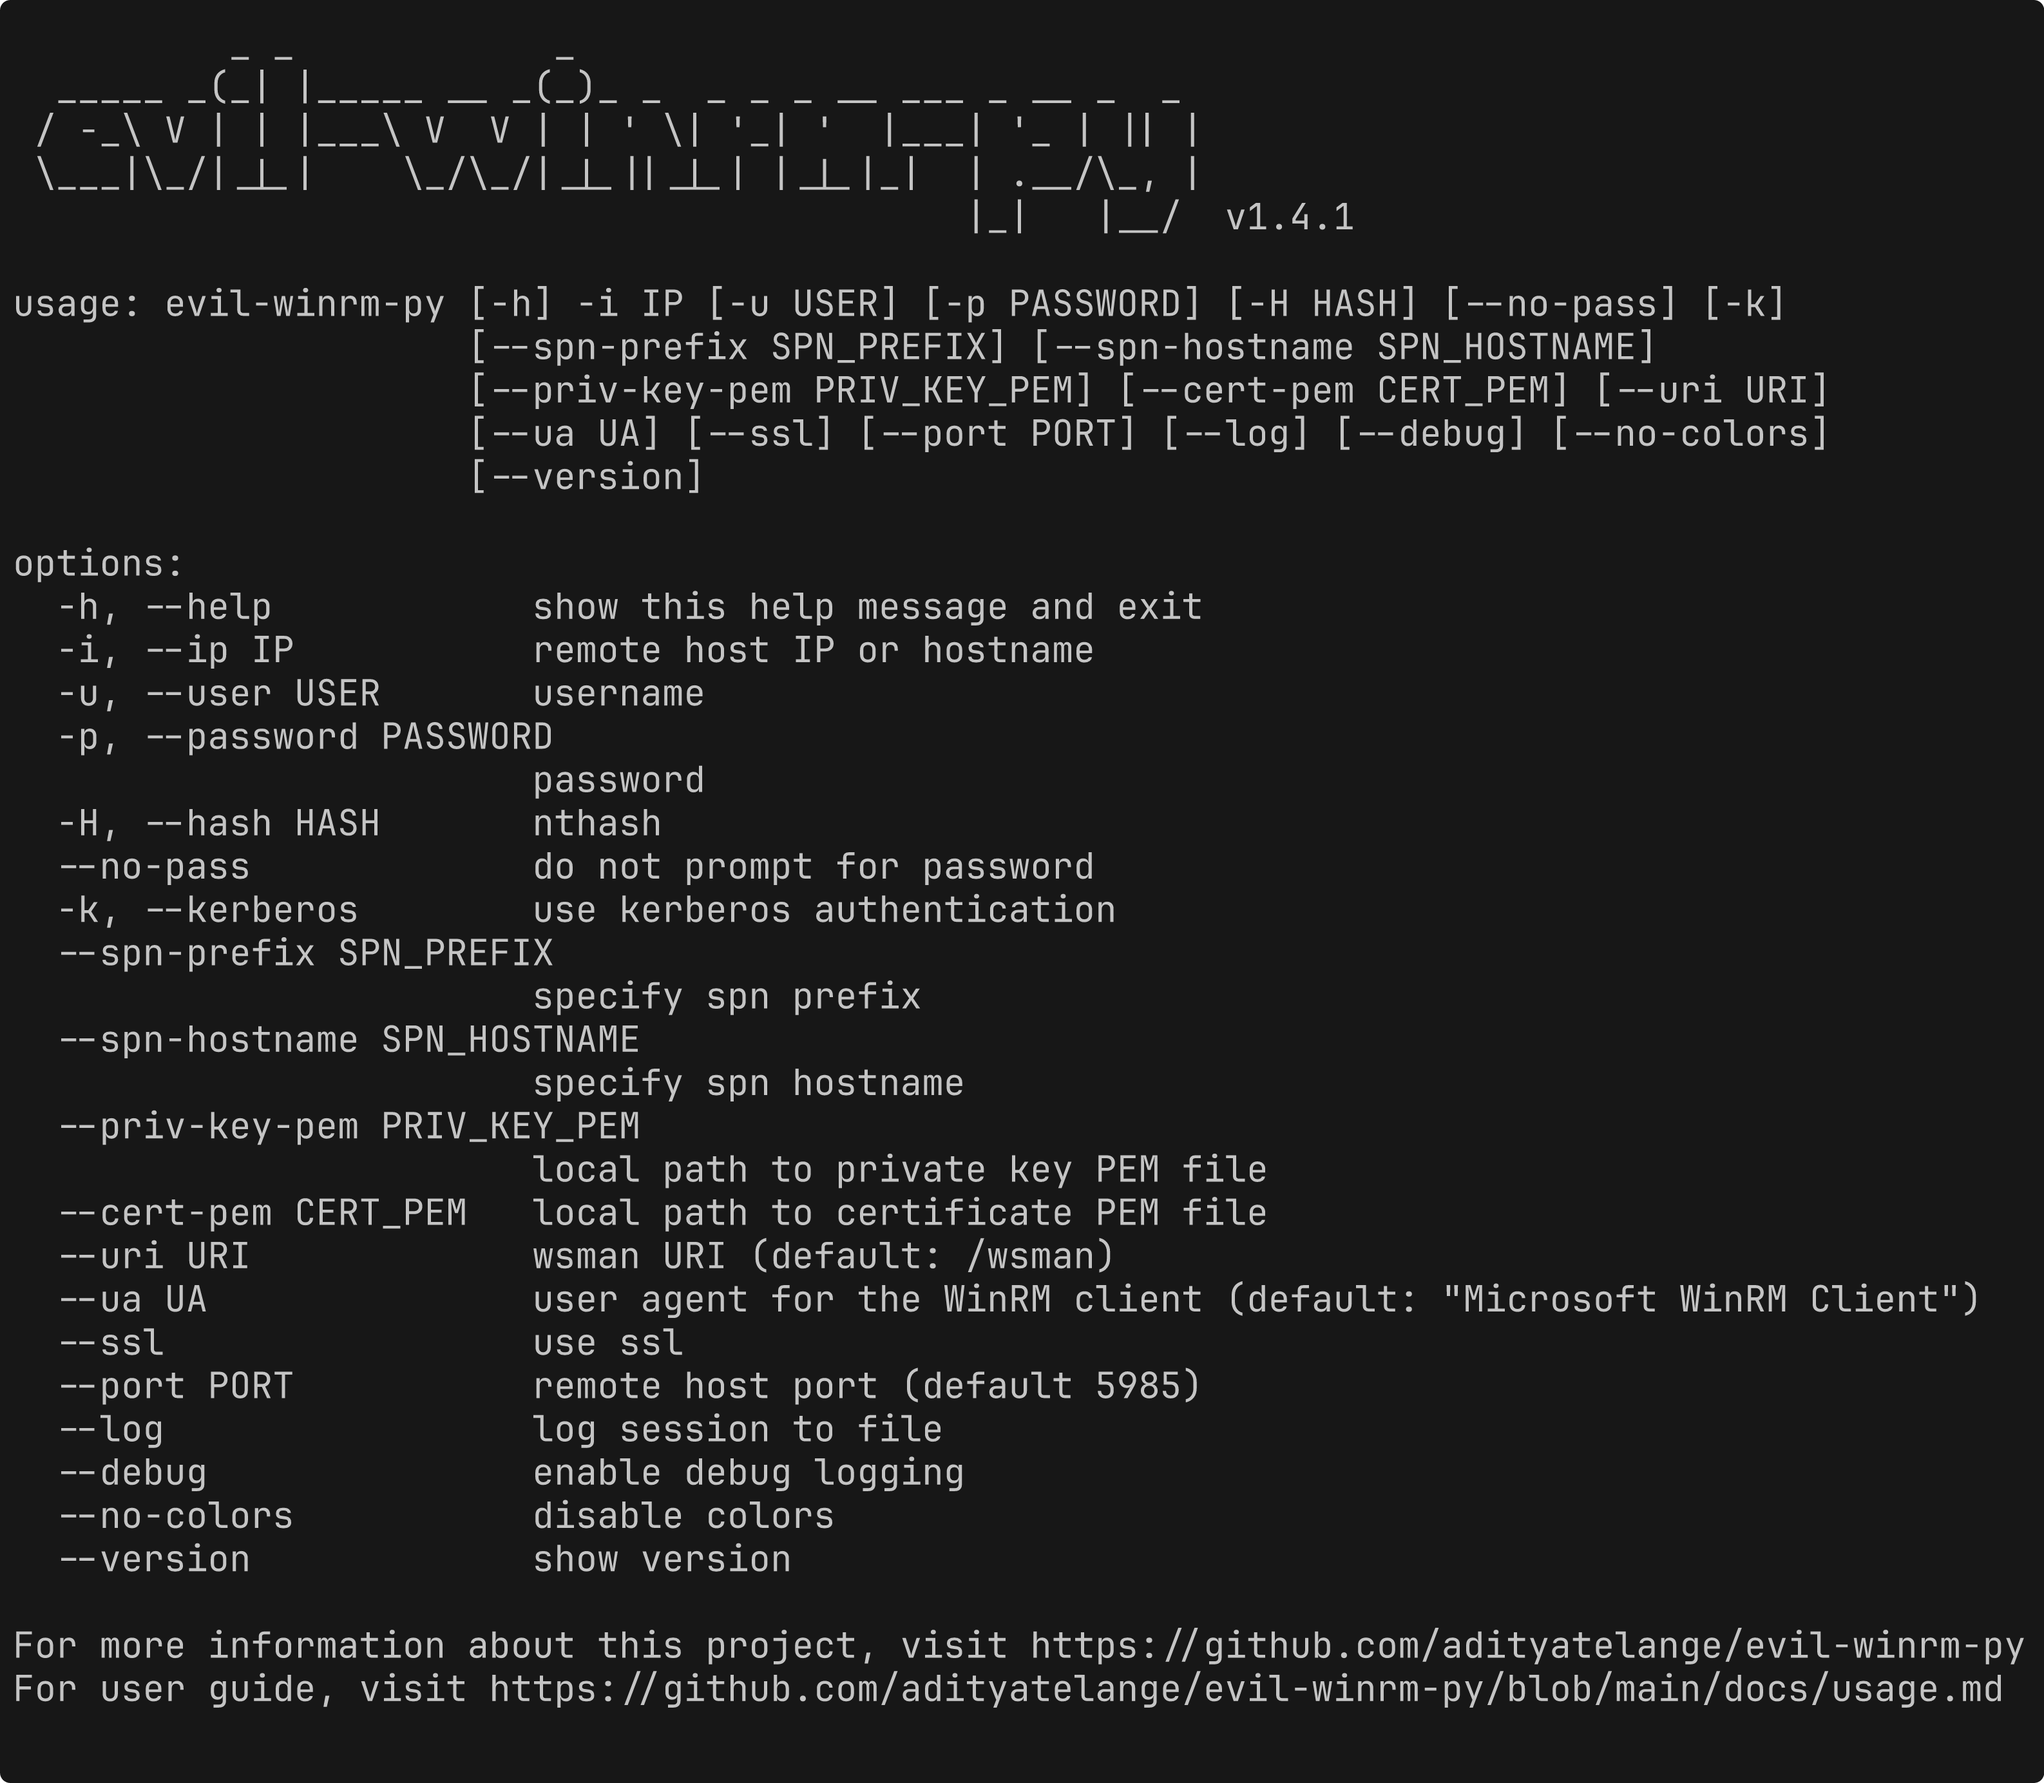
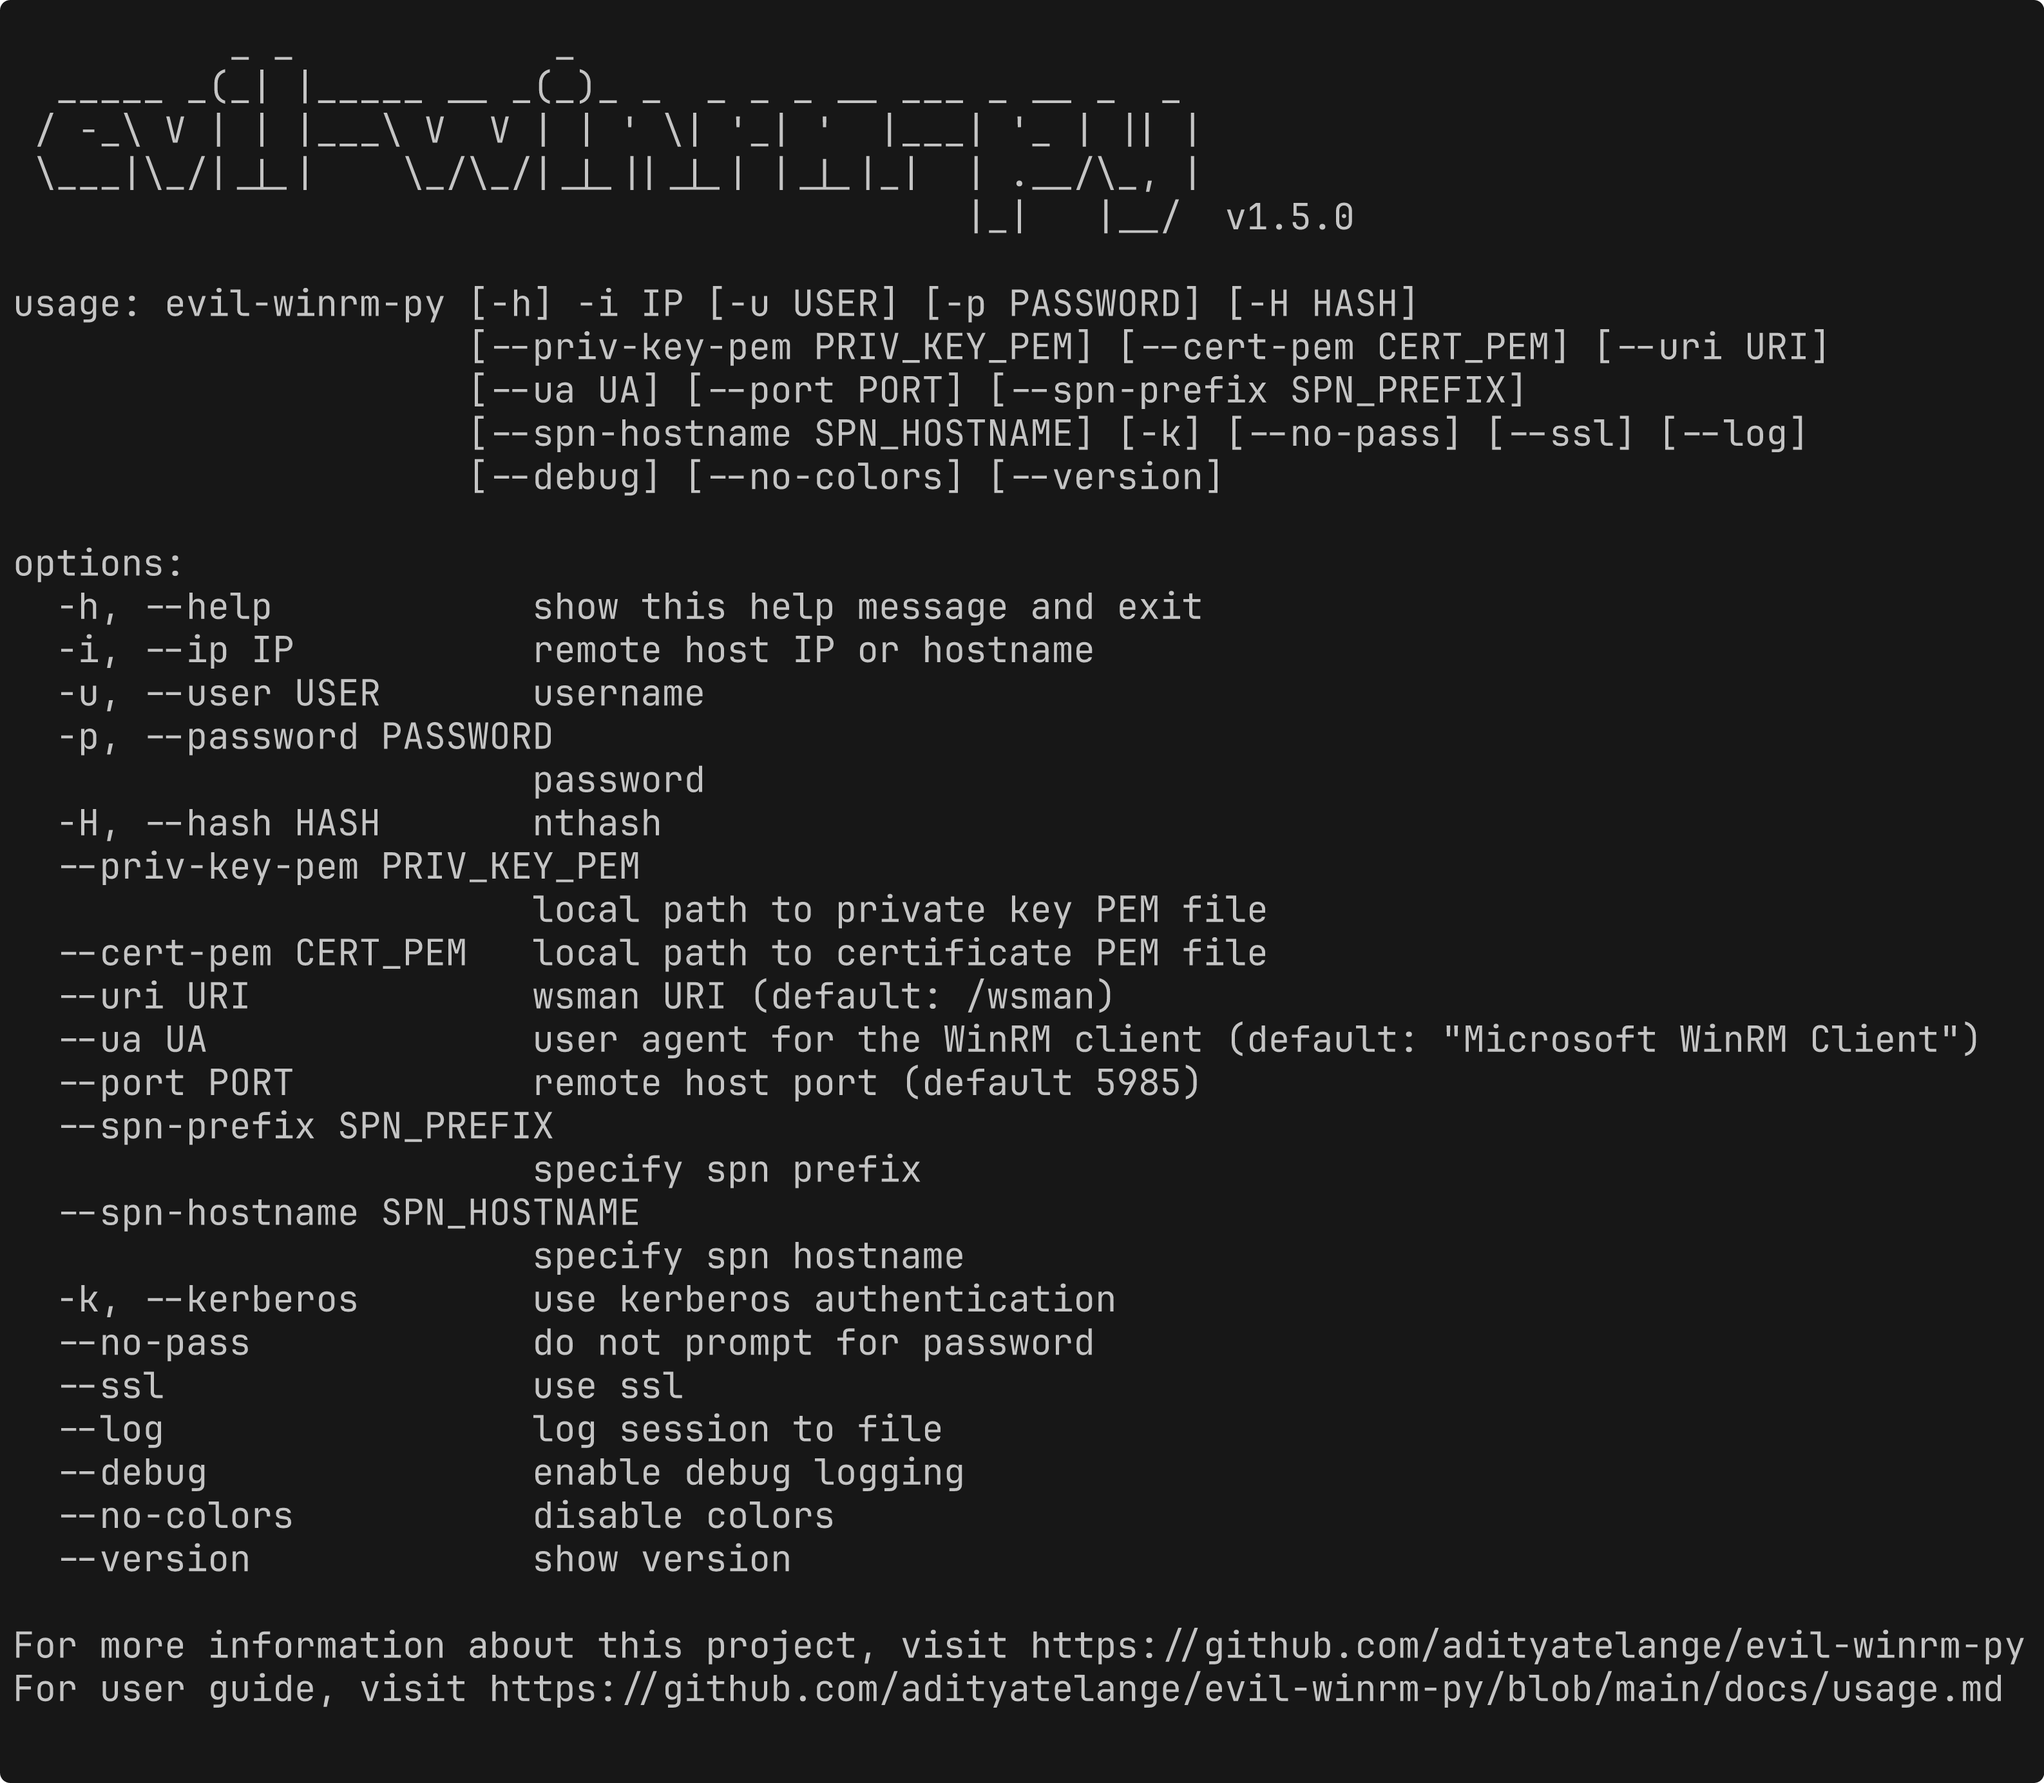
Bump version to 1.5.0

diff --git a/evil_winrm_py/__init__.py b/evil_winrm_py/__init__.py
@@ -1,1 +1,1 @@
-__version__ = "1.4.1"
+__version__ = "1.5.0"

diff --git a/README.md b/README.md
@@ -10,7 +10,7 @@
 
 `evil-winrm-py` is a python-based tool for executing commands on remote Windows machines using the WinRM (Windows Remote Management) protocol. It provides an interactive shell with enhanced features like file upload/download, command history, and colorized output. It supports various authentication methods including NTLM, Pass-the-Hash, Certificate, and Kerberos.
 
-![](https://raw.githubusercontent.com/adityatelange/evil-winrm-py/refs/tags/v1.4.1/assets/terminal.png)
+![](https://raw.githubusercontent.com/adityatelange/evil-winrm-py/refs/tags/v1.5.0/assets/terminal.png)
 
 > [!NOTE]
 > This tool is designed strictly for educational, ethical use, and authorized penetration testing. Always ensure you have explicit authorization before accessing any system. Unauthorized access or misuse of this tool is both illegal and unethical.
